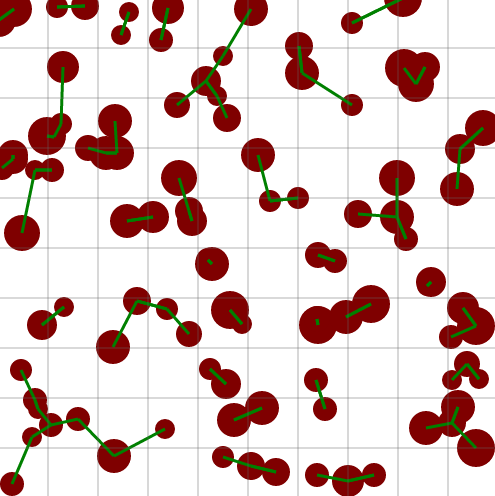
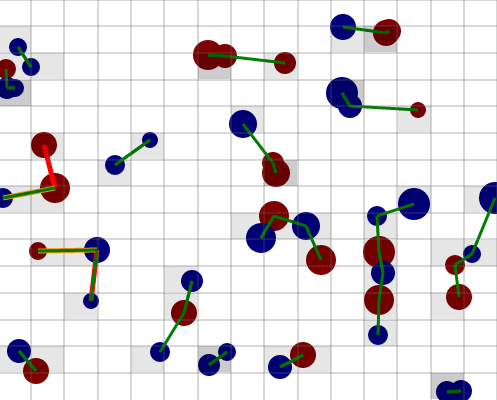
add naive grid-based nearest neighbor

diff --git a/nearestneighbor.go b/nearestneighbor.go
@@ -22,12 +22,12 @@ const defaultstyle = "fill:rgb(127,0,0)"
 
 var port = flag.String("port", ":2003", "http service address")
 
-const WindowWidth = 576
-const WindowHeight = 350
+const WindowWidth = 500
+const WindowHeight = 400
 
-var N = 50                    // number of bodies
-var grid_cells = [2]int{9, 7} // number of cells in grid
-var grid_data = [][][]int{}   // 2d grid with array of indices of bodies overlapping cell
+var N = 50                      // number of bodies
+var grid_cells = [2]int{15, 15} // number of cells in grid
+var grid_data = [][][]int{}     // 2d grid with array of indices of bodies overlapping cell
 
 var bodies [][]float64
 var positions []float64
@@ -57,8 +57,8 @@ func initSystem() {
 	// x y radius
 
 	// body radius (in pixels)
-	minradius := 10
-	maxradius := 20
+	maxradius := math.Max(cellsize[0], cellsize[1]) / 2
+	minradius := maxradius / 2
 
 	for i := 0; i < N; i++ {
 		idx := i * 3
@@ -98,6 +98,7 @@ func bruteNearest() []int {
 	// indices of nearest neighbors for each body
 	nearest := make([]int, N)
 	dists := make([]float64, N)
+	count := 0
 
 	// For each body
 	for i := 0; i < N; i++ {
@@ -106,6 +107,7 @@ func bruteNearest() []int {
 		// check every other body, and set index to closest
 		for j := 0; j < N; j++ {
 			if i != j {
+				count++
 				r2 := getR2(bodies[i], bodies[j])
 				if r2 < dists[i] {
 					dists[i] = r2
@@ -114,6 +116,102 @@ func bruteNearest() []int {
 			}
 		}
 	}
+	fmt.Println("Brute count:", count)
+	return nearest
+}
+
+func clamp(val int, minval int, maxval int) int {
+	if val < minval {
+		return minval
+	} else if val > maxval {
+		return maxval
+	}
+	return val
+}
+
+func imin(a int, b int) int {
+	if a < b {
+		return a
+	}
+	return b
+}
+func imax(a int, b int) int {
+	if a > b {
+		return a
+	}
+	return b
+}
+
+// O(n*d) number of checks for uniform density
+func gridNearest() []int {
+	// indices of nearest neighbors for each body
+	nearest := make([]int, N)
+	dists := make([]float64, N)
+	count := 0
+
+	// Initialize dists to max possible value
+	for i := 0; i < N; i++ {
+		nearest[i] = -1
+		dists[i] = WindowWidth * WindowHeight // set maxdist
+	}
+
+	// For each grid cell
+	for i := 0; i < grid_cells[0]; i++ {
+		for j := 0; j < grid_cells[1]; j++ {
+
+			// Get neighbors
+			ra := imax(0, i-1)
+			rb := imin(i+1, grid_cells[0]-1) + 1
+			ca := imax(0, j-1)
+			cb := imin(j+1, grid_cells[1]-1) + 1 // range include
+
+			// For each body in this cell
+			for _, bodyidx := range grid_data[i][j] {
+				// Golang slices don't work like matlab slices, so no slice columns
+				// http://stackoverflow.com/questions/15618155/go-lang-slice-columns-from-2d-array
+				// fmt.Printf("\nIterating [%d:%d][%d:%d]\n", ra, rb, ca, cb)
+				// For each neighbor in cell and adjacent cells
+				for _, r := range grid_data[ra:rb] {
+					for _, c := range r[ca:cb] {
+						for _, otheridx := range c {
+							// If not same body
+							if bodyidx != otheridx {
+								// Update if distance is less than last best
+								count++
+								r2 := getR2(bodies[bodyidx], bodies[otheridx])
+								if r2 < dists[bodyidx] {
+									dists[bodyidx] = r2
+									nearest[bodyidx] = otheridx
+								}
+							}
+						}
+					}
+				}
+			}
+		}
+	}
+
+	// Check those that aren't within a cell of others
+	// default to brute force check for these
+	fmt.Println(nearest)
+	fmt.Println(dists)
+	for i, v := range nearest {
+		if v == -1 {
+			// check every other body, and set index to closest
+			for j := 0; j < N; j++ {
+				if i != j {
+					count++
+					r2 := getR2(bodies[i], bodies[j])
+					if r2 < dists[i] {
+						dists[i] = r2
+						nearest[i] = j
+					}
+				}
+			}
+		}
+	}
+
+	fmt.Println("Grid count:", count)
 	return nearest
 }
 
@@ -140,17 +238,17 @@ func drawSystem(s *svg.SVG, style string) {
 }
 
 // Grid draws a grid at the specified coordinate, dimensions, and spacing, with optional style.
-func Grid2(s *svg.SVG, x int, y int, w int, h int, nx int, ny int, style ...string) {
+func Grid2(s *svg.SVG, x float64, y float64, w float64, h float64, nx float64, ny float64, style ...string) {
 
 	if len(style) > 0 {
 		s.Gstyle(style[0])
 	}
 	for ix := x; ix <= x+w; ix += nx {
-		s.Line(ix, y, ix, y+h)
+		s.Line(int(ix), int(y), int(ix), int(y+h))
 	}
 
 	for iy := y; iy <= y+h; iy += ny {
-		s.Line(x, iy, x+w, iy)
+		s.Line(int(x), int(iy), int(x+w), int(iy))
 	}
 	if len(style) > 0 {
 		s.Gend()
@@ -201,27 +299,57 @@ func brute(w http.ResponseWriter, req *http.Request) {
 
 	initSystem()
 
-	// Plot circles
-	fmt.Println("Plotting brute force")
+	// Draw system
+	fmt.Println("Drawing system of", N, "bodies")
 	drawSystem(s, shapestyle(req.URL.Path))
 
 	// Get nearest neighbors using brute force
-	nearest := bruteNearest()
+	nearestBrute := bruteNearest()
+
+	calcCells()
+	nearestGrid := gridNearest()
+
+	mismatch_count := 0
+	for i, v := range nearestBrute {
+		if v != nearestGrid[i] {
+			mismatch_count++
+			fmt.Println(mismatch_count, "MISMATCH", i, v, nearestGrid[i])
+		}
+	}
+	if mismatch_count > 0 {
+		fmt.Println("Warning, brute force & grid-based have mismatch")
+		// fmt.Println("brute", nearestBrute)
+		// fmt.Println("grid", nearestGrid)
+	}
+	nearest := nearestGrid
 
 	// Draw green line between nearest neighbors
 	for i := 0; i < N; i++ {
-		a := bodies[i]
-		b := bodies[nearest[i]]
-		s.Line(int(a[0]), int(a[1]),
-			int(b[0]), int(b[1]),
-			"stroke:green;stroke-width:3px")
+		if nearestGrid[i] != nearestBrute[i] {
+			// draw mismatch line
+			a := bodies[i]
+			b := bodies[nearestBrute[i]]
+			c := bodies[nearestGrid[i]]
+			s.Line(int(a[0]), int(a[1]),
+				int(b[0]), int(b[1]),
+				"stroke:red;stroke-width:5px")
+			s.Line(int(a[0]), int(a[1]),
+				int(c[0]), int(c[1]),
+				"stroke:orange;stroke-width:5px")
+		}
+		if nearest[i] >= 0 {
+			a := bodies[i]
+			b := bodies[nearest[i]]
+			s.Line(int(a[0]), int(a[1]),
+				int(b[0]), int(b[1]),
+				"stroke:green;stroke-width:3px")
+		}
 
 	}
 
 	// Draw grid last
-	calcCells()
 	drawCells(s)
-	Grid2(s, 0, 0, WindowWidth, WindowHeight, int(cellsize[0]), int(cellsize[1]), "stroke:rgba(100,100,100,0.5)")
+	Grid2(s, 0, 0, WindowWidth, WindowHeight, cellsize[0], cellsize[1], "stroke:rgba(100,100,100,0.5)")
 
 	s.End()
 }

diff --git a/README.md b/README.md
@@ -1,8 +1,11 @@
 # go-supreme-pancake - Nearest Neighbor using svgo 
 Go webserver serving SVG images demonstrating grid-based nearest neighbor calculation using [ajstarks/svgo](https://github.com/ajstarks/svgo) to generate SVG images.
 
-Example with 100 bodies with green lines between nearest neighbors, calculated using brute force `O(n^2)` calculations
+Example with 100 bodies with green lines between nearest neighbors, calculated using both brute force `O(n^2)` calculations as well as grid based `O(nd)` calculations
+
 ![100 bodies with green lines to nearest neighbors](nearest_neighbors.png)
+
+The orange and red lines show a mismatch where grid based falsely chooses a neighbor in a cell vs true distance. This is because we're naively placing bodies within cells disregarding radii, the next step will be to place bodies in all cells they overlap, resolving mismatches and reducing overall computation needed.
 
 We can do better than O(n^2) for nearest neighbor calculation.One way is to grid up the space into cells, in one `O(n)` pass populate the cells with the indices of bodies overlapping that cell.
 
